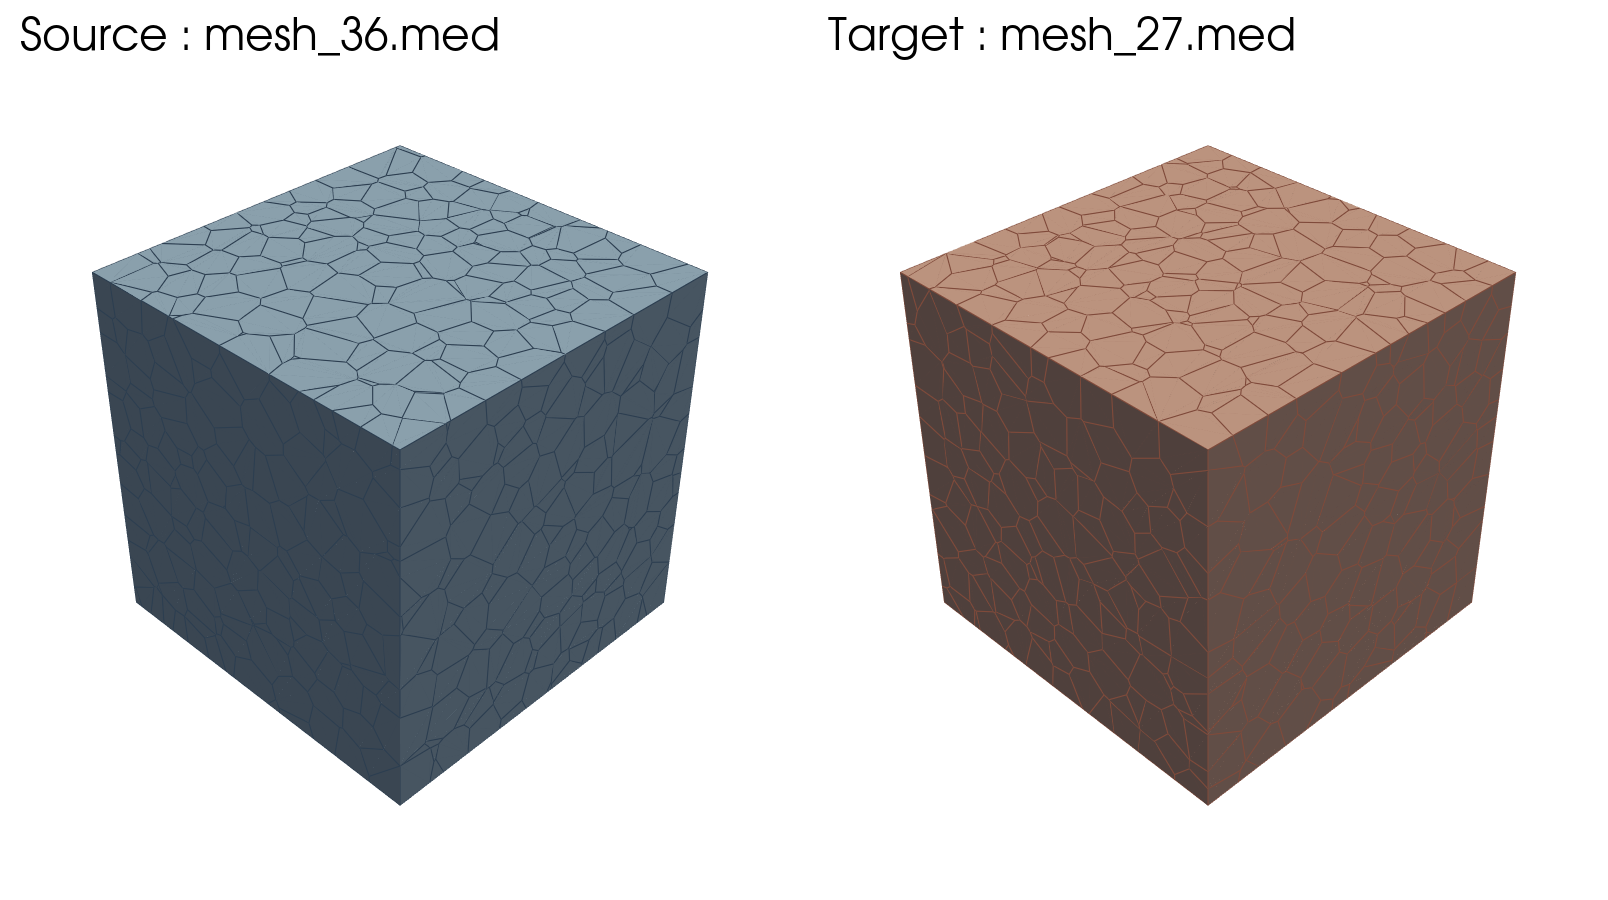
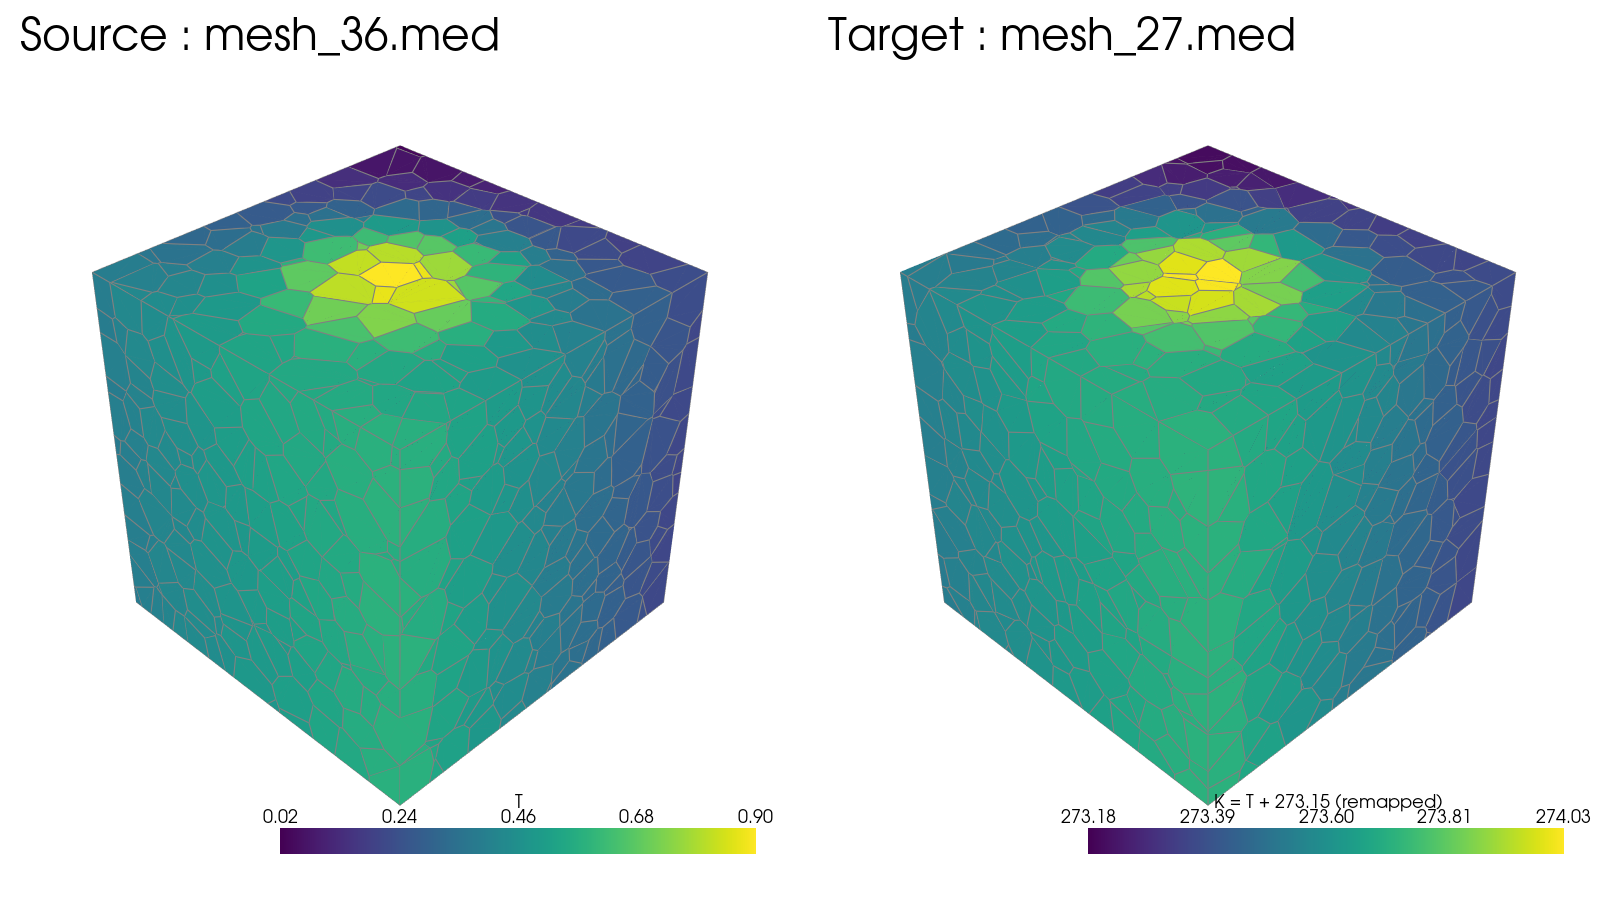
docs: better generated images

diff --git a/docs/pres/generate_images.py b/docs/pres/generate_images.py
@@ -4,9 +4,11 @@ Produces three PNGs in `docs/images/`:
 
 - `field_visualization.png`  — a 2D QUAD4 mesh with a computed scalar field and
   the associated "liquid" selection group.
-- `polyhedral_mesh.png`      — the 2000-cell polyhedral mesh `mesh_36.med`.
-- `polyhedral_remap.png`     — a conservative P0/P0 remap: source mesh_36 ->
-  target mesh_27.
+- `polyhedral_mesh.png`      — the 2000-cell polyhedral mesh `mesh_36.med`
+  (quarter cut-away revealing the polyhedra inside, colored by cell center X).
+- `polyhedral_remap.png`     — a conservative P0/P0 remap: a Gaussian "blob"
+  field defined on mesh_36 (source) is transferred onto mesh_27 (target)
+  (`K = tr(T + 273.15)`).
 
 Inspired by `docs/python_examples/*.ipynb`, but with a light theme suited to the
 presentation (the notebooks use the dark mdbook theme).
@@ -68,13 +70,9 @@ def field_visualization() -> None:
 
     T = mf.Field("T")
     liquid = mesh.select((T > 1.25) & (T < 1.95))
-    liquid_ids = np.concatenate(list(liquid.ids().values()))
 
     all_pv = mesh.to_pyvista()
     all_pv["T"] = mesh.fields["T"].numpy()
-    region = np.zeros(mesh.num_elements())
-    region[liquid_ids] = 1.0
-    all_pv["In"] = region
 
     def left(pt: pv.Plotter) -> None:
         pt.add_mesh(
@@ -84,21 +82,23 @@ def field_visualization() -> None:
             show_edges=True,
             line_width=0.5,
             lighting=False,
+            show_scalar_bar=False,
         )
         pt.add_scalar_bar(title="T", fmt="%.2f")
         pt.camera_position = "xy"
 
     def right(pt: pv.Plotter) -> None:
+        liquid_mesh = liquid.to_mesh()
         pt.add_mesh(
-            all_pv,
-            scalars="In",
-            cmap=["#cfcfcf", "#e74c3c"],
-            clim=[0, 1],
+            liquid_mesh.to_pyvista(),
+            scalars="T",
+            cmap="viridis",
             show_edges=True,
             line_width=0.5,
             lighting=False,
             show_scalar_bar=False,
         )
+        pt.add_scalar_bar(title="T", fmt="%.2f")
         pt.camera_position = "xy"
 
     save(hstack(render_scene(left), render_scene(right)), "field_visualization.png")
@@ -106,19 +106,26 @@ def field_visualization() -> None:
 
 def polyhedral_mesh() -> None:
     mesh = mf.UMesh.read(str(DATA / "mesh_36.med"))
-    boundary = mesh.boundaries().to_pyvista()
+    centers = mesh.to_pyvista().cell_centers().points
+    mesh.set_field("X", {"PHED": np.ascontiguousarray(centers[:, 0])})
+    poly = mesh.to_pyvista()
 
     def setup(pt: pv.Plotter) -> None:
         pt.add_mesh(
-            boundary,
-            color="#9bb8d3",
+            poly,
+            scalars="X",
+            cmap="viridis",
+            clim=[0, 1],
             show_edges=True,
-            edge_color="#2c3e50",
-            line_width=0.6,
+            edge_color="gray",
+            line_width=0.3,
+            lighting=False,
+            show_scalar_bar=False,
         )
+        pt.add_scalar_bar(title="cell center X", fmt="%.2f")
         pt.camera_position = "iso"
         pt.reset_camera()
-        pt.camera.zoom(0.95)
+        pt.camera.zoom(0.9)
 
     save(render_scene(setup, SIZE_SINGLE), "polyhedral_mesh.png")
 
@@ -127,18 +134,44 @@ def polyhedral_remap() -> None:
     src = mf.UMesh.read(str(DATA / "mesh_36.med"))
     tgt = mf.UMesh.read(str(DATA / "mesh_27.med"))
 
-    src_faces = src.boundaries().to_pyvista()
-    tgt_faces = tgt.boundaries().to_pyvista()
+    centers = src.to_pyvista().cell_centers().points
+    sigma = 0.20
+    hotspot = (
+        np.exp(
+            -(
+                (centers[:, 0] - 0.5) ** 2
+                + (centers[:, 1] - 0.5) ** 2
+                + (centers[:, 2] - 0.95) ** 2
+            )
+            / (2.0 * sigma**2)
+        )
+        * 0.6
+        + 0.4 * centers[:, 0]
+        + 0.2 * centers[:, 1]
+    )
+    src.set_field("T", {"PHED": np.ascontiguousarray(hotspot)})
+
+    tr = mf.ConservativeP0(src, tgt)
+    tgt.fields["K"] = tr(mf.Field("T") + 273.15)
+
+    src_poly = src.to_pyvista()
+    tgt_poly = tgt.to_pyvista()
+    k = tgt.fields["K"].numpy()
 
     def source(pt: pv.Plotter) -> None:
         pt.add_text("Source : mesh_36.med", font_size=22, position=(20, 840))
         pt.add_mesh(
-            src_faces,
-            color="#9bb8d3",
+            src_poly,
+            scalars="T",
+            cmap="viridis",
+            clim=[hotspot.min(), hotspot.max()],
             show_edges=True,
-            edge_color="#2c3e50",
-            line_width=0.6,
+            edge_color="gray",
+            line_width=0.3,
+            lighting=False,
+            show_scalar_bar=False,
         )
+        pt.add_scalar_bar(title="T", fmt="%.2f")
         pt.camera_position = "iso"
         pt.reset_camera()
         pt.camera.zoom(0.9)
@@ -146,12 +179,17 @@ def polyhedral_remap() -> None:
     def target(pt: pv.Plotter) -> None:
         pt.add_text("Target : mesh_27.med", font_size=22, position=(20, 840))
         pt.add_mesh(
-            tgt_faces,
-            color="#d3a99b",
+            tgt_poly,
+            scalars="K",
+            cmap="viridis",
+            clim=[np.min(k), np.max(k)],
             show_edges=True,
-            edge_color="#7f4a3a",
-            line_width=0.6,
+            edge_color="gray",
+            line_width=0.3,
+            lighting=False,
+            show_scalar_bar=False,
         )
+        pt.add_scalar_bar(title="K = T + 273.15 (remapped)", fmt="%.2f")
         pt.camera_position = "iso"
         pt.reset_camera()
         pt.camera.zoom(0.9)
